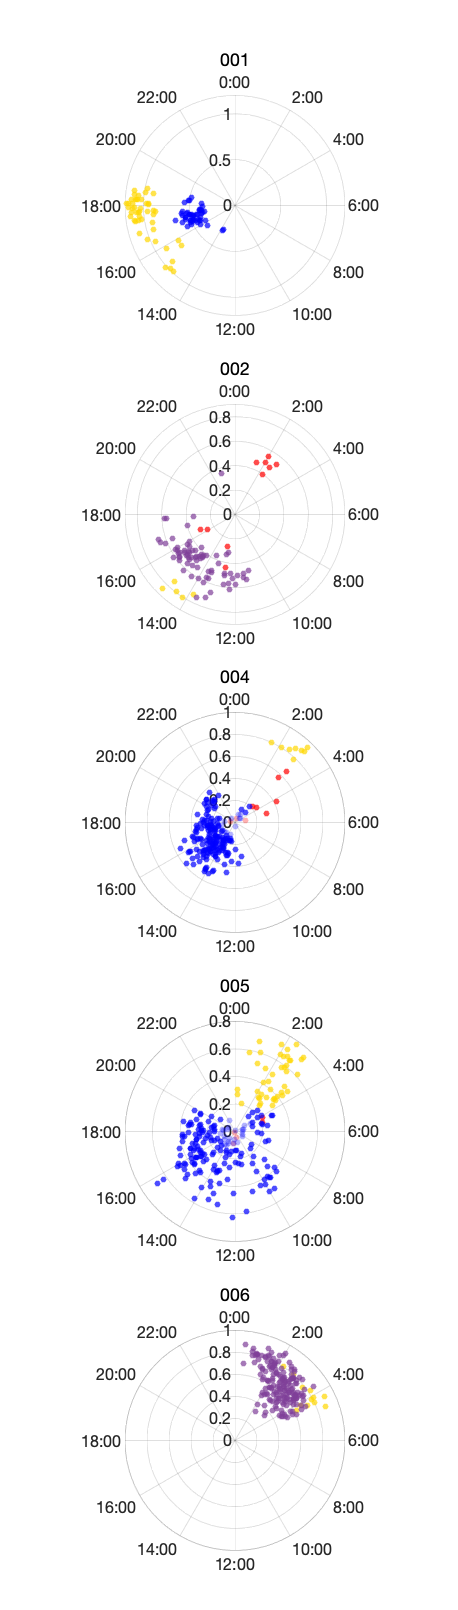
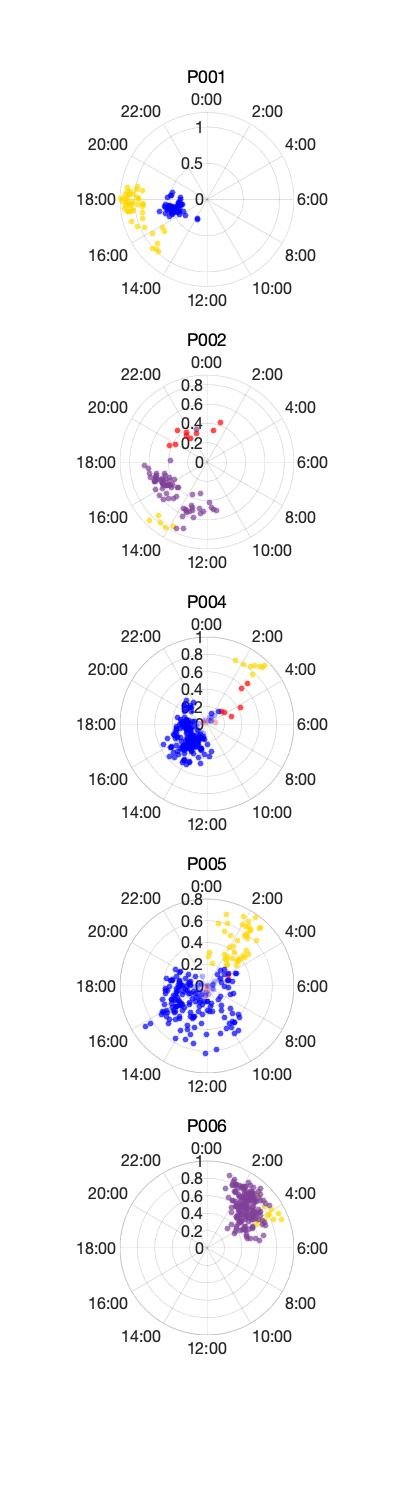
updated figures for Sandy comments

diff --git a/CircadianPaper/zoneTemplateGeneration.m b/CircadianPaper/zoneTemplateGeneration.m
@@ -99,7 +99,7 @@ if wrapped
 
         t = tiledlayout(2-overlaid,5);
         j = 1;
-        for i =[1,3,4,2,5]
+        for i =1:5
             nexttile(j)
             polarPlotDay(templates{i,h}(:,1),smoothedRotatedCircadianMatrices{i,1},c_yellow);
             hold on
@@ -121,7 +121,7 @@ else
         figure('units','inches','position',[1 1 2 5]);%('Position', get(0, 'Screensize'));
         t = tiledlayout(5,2-overlaid);
         j = 1;
-        for i =[1,3,4,2,5]
+        for i =1:5
             nexttile(j)
             plot((0:143)/6,[templates{i,h}(:,1)-mean(templates{i,h}(:,1),'omitnan')],'Color',c_yellow,'LineWidth',2);
             %plot((0:143)/6,[templates{i,h}(:,1);templates{i,h}(:,1)],'Color',c_yellow,'LineWidth',2);
